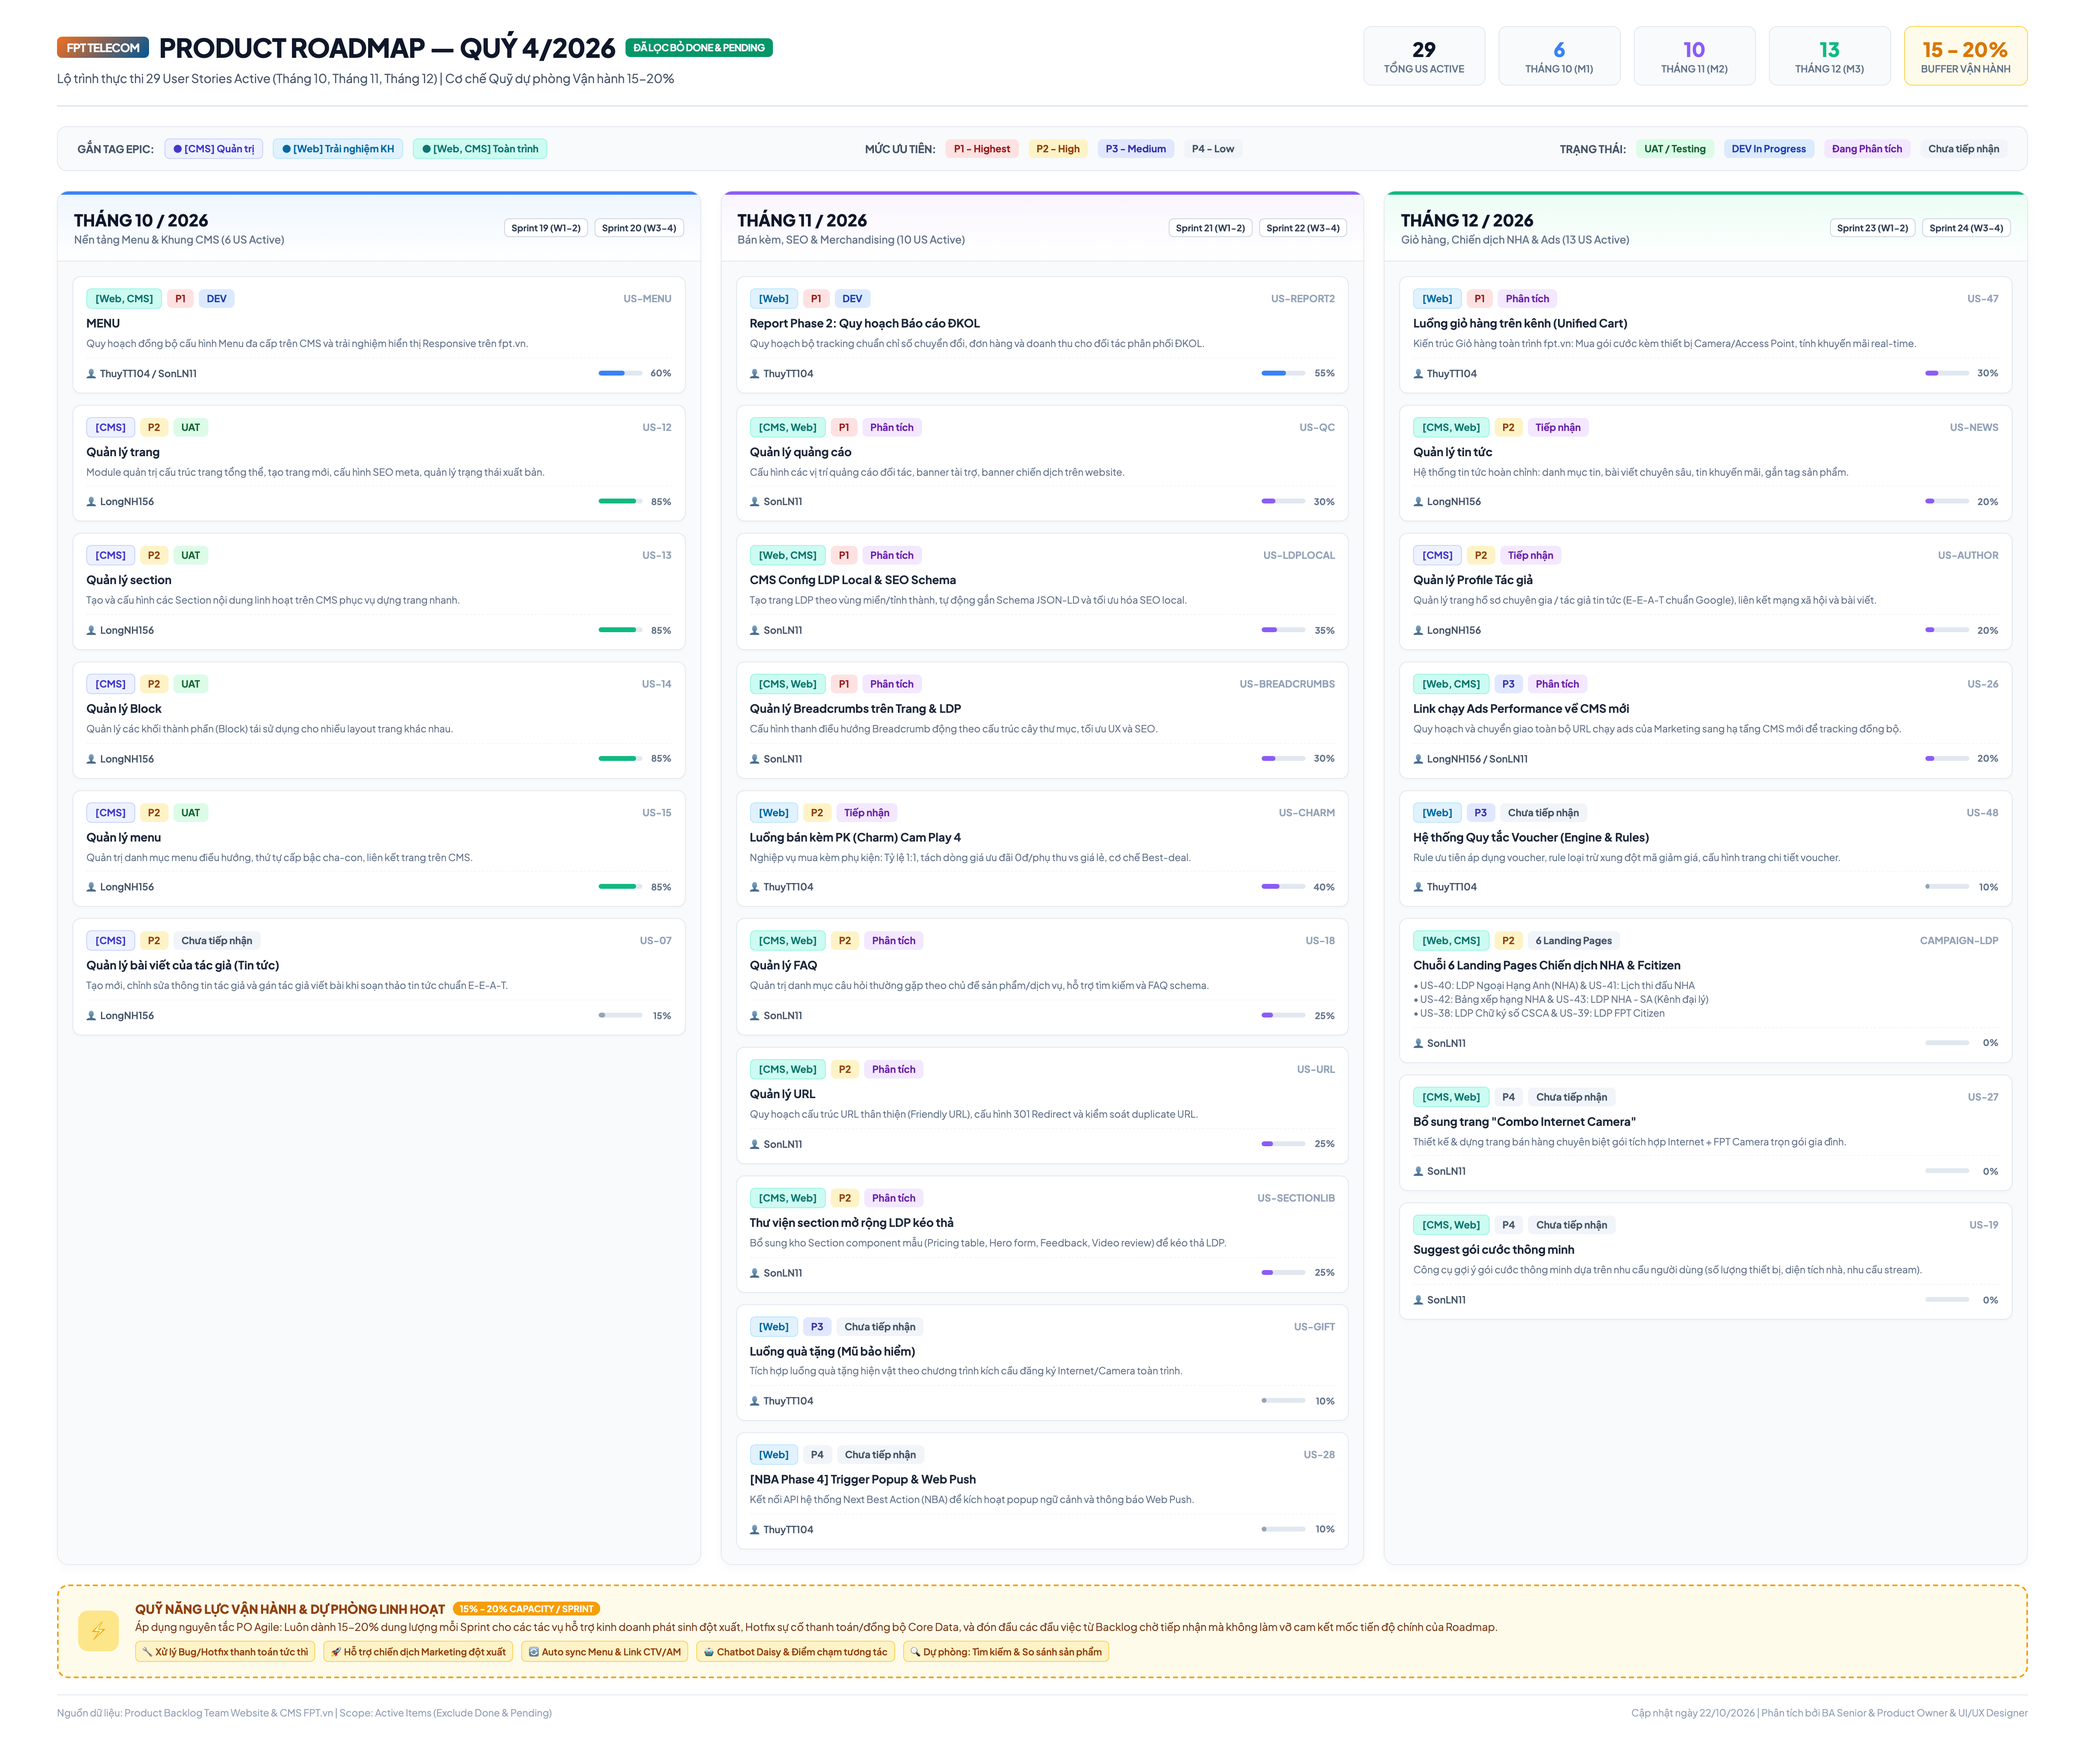
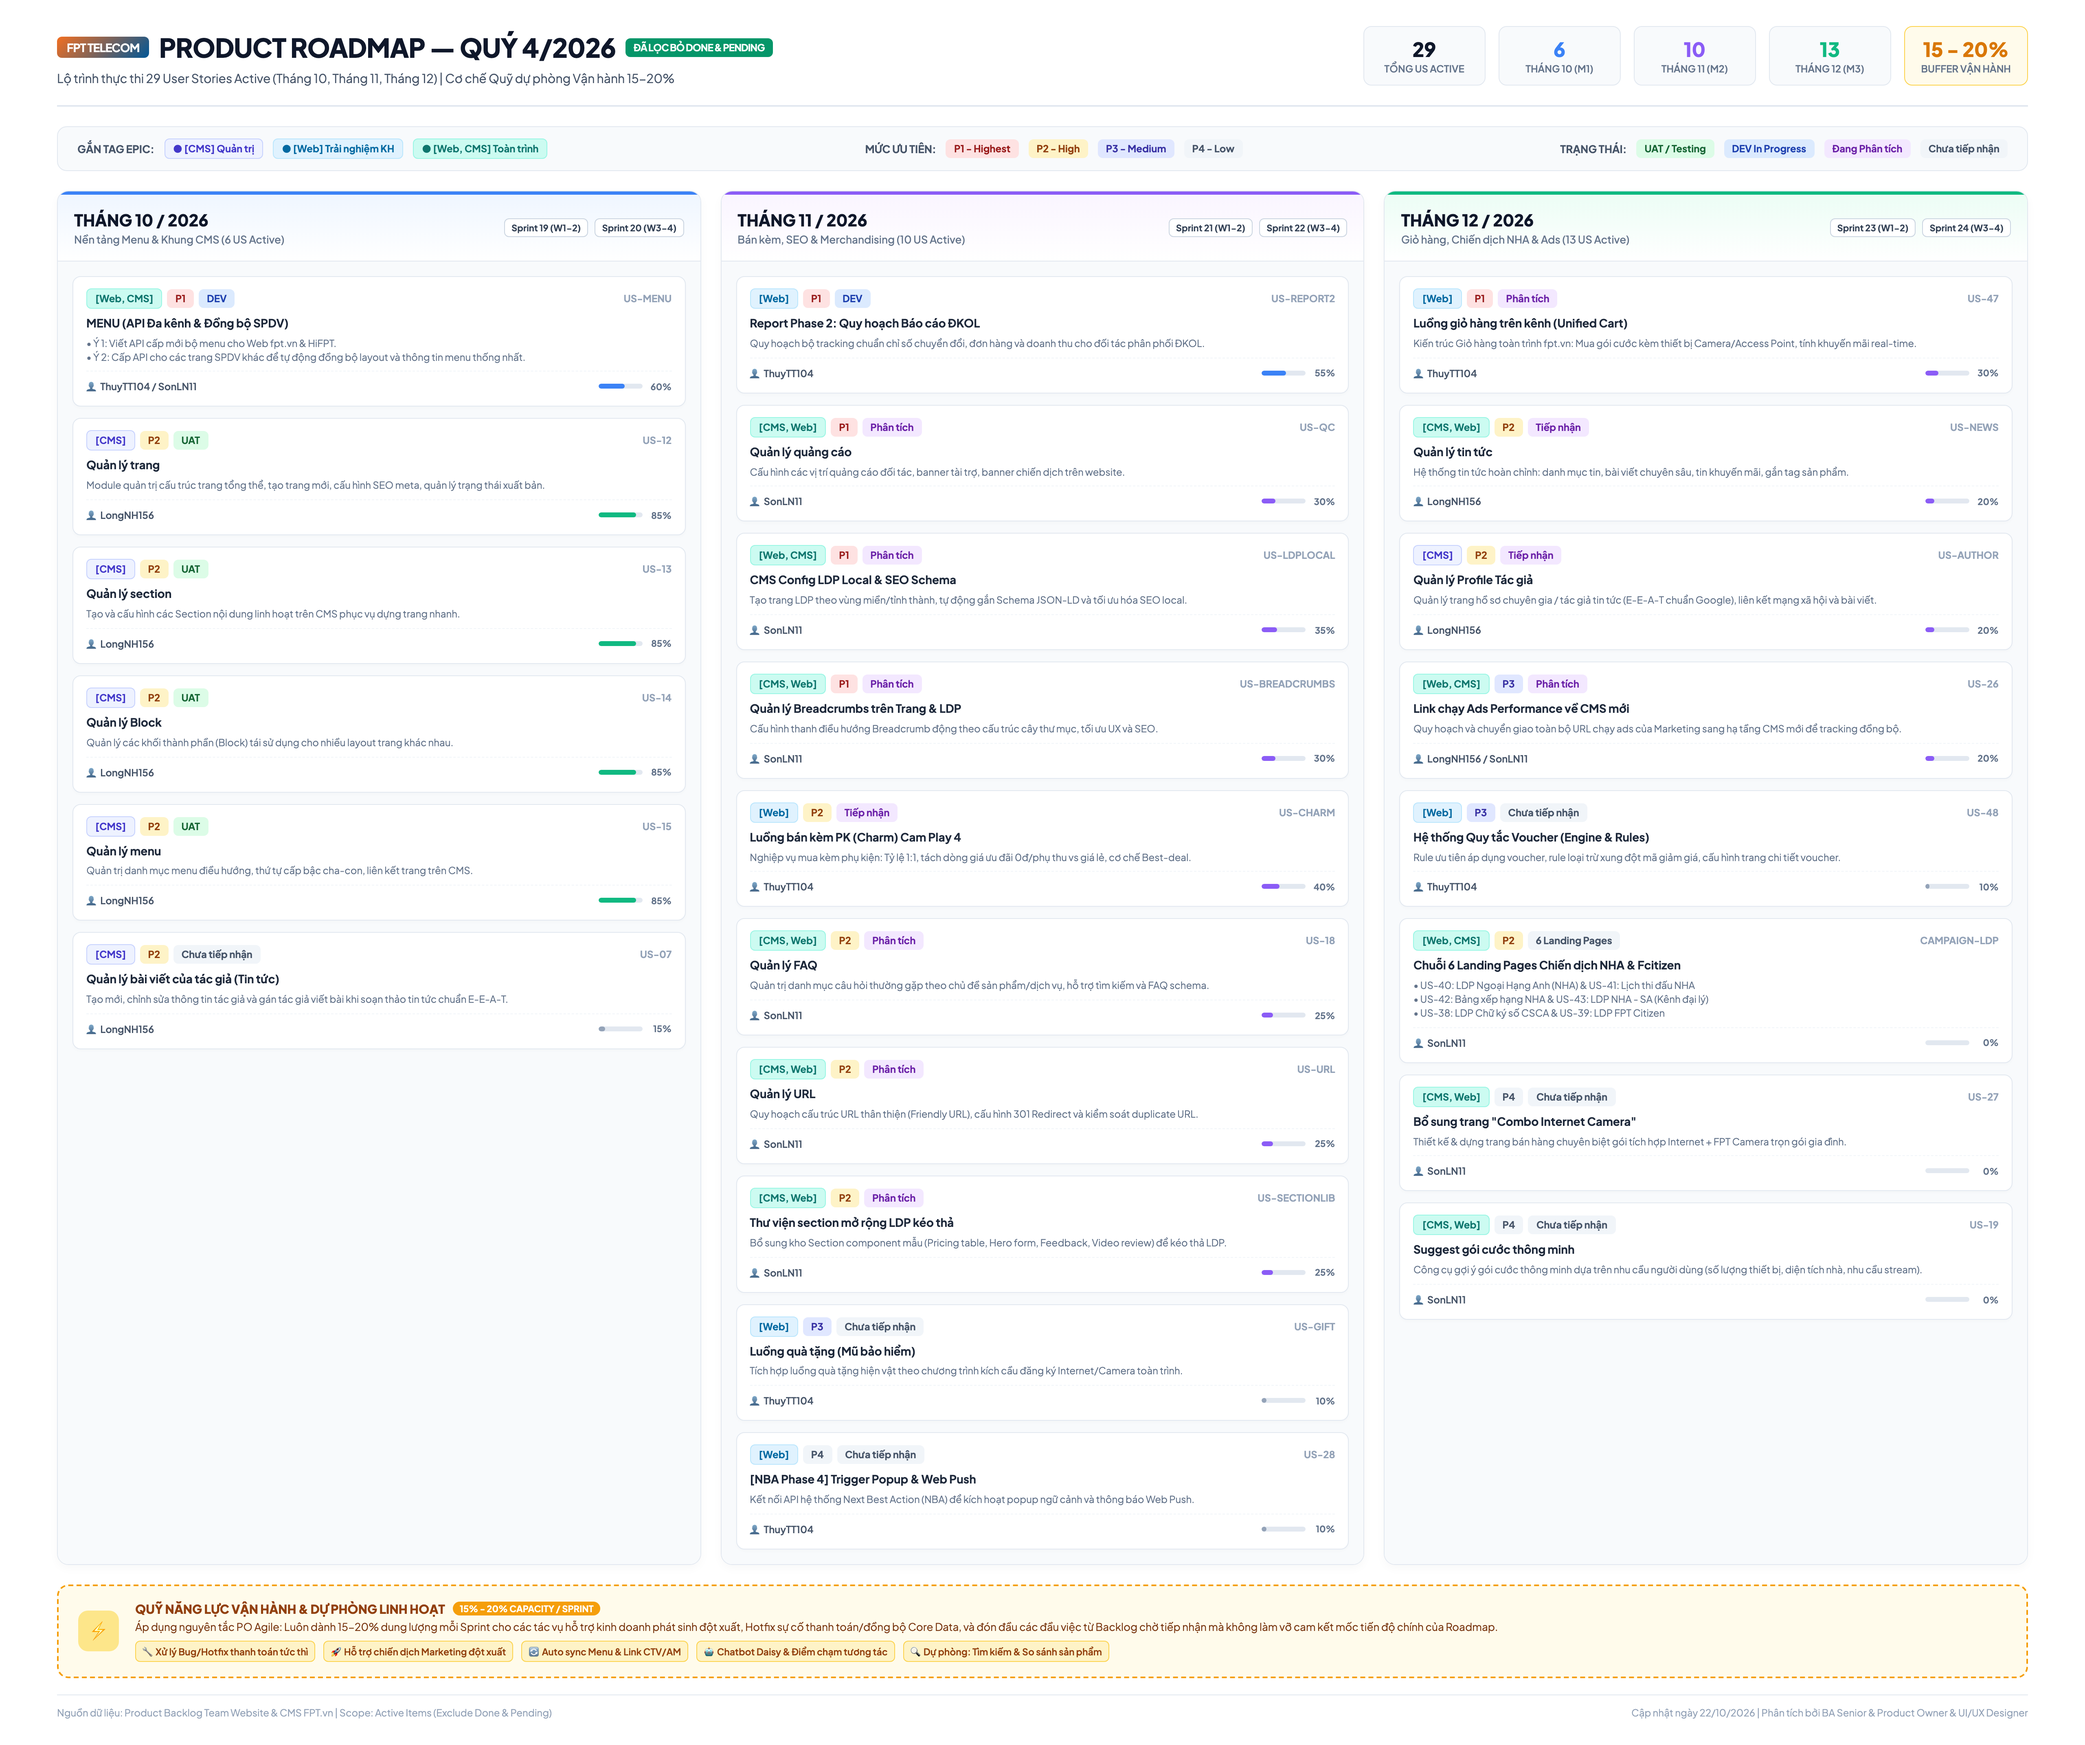
feat(roadmap): cap nhat US-MENU bo sung cap API dong bo layout va thong tin cho cac trang SPDV

diff --git a/thuyttdoc/roadmap_q4_2026.html b/thuyttdoc/roadmap_q4_2026.html
@@ -356,8 +356,11 @@
             </div>
             <span class="card-id">US-MENU</span>
           </div>
-          <div class="card-title">MENU</div>
-          <div class="card-desc">Quy hoạch đồng bộ cấu hình Menu đa cấp trên CMS và trải nghiệm hiển thị Responsive trên fpt.vn.</div>
+          <div class="card-title">MENU (API Đa kênh & Đồng bộ SPDV)</div>
+          <div class="card-desc">
+            • Ý 1: Viết API cấp mới bộ menu cho Web fpt.vn & HiFPT.<br>
+            • Ý 2: Cấp API cho các trang SPDV khác để tự động đồng bộ layout và thông tin menu thống nhất.
+          </div>
           <div class="card-bottom">
             <span class="pic-badge">👤 ThuyTT104 / SonLN11</span>
             <div class="progress-wrap">
